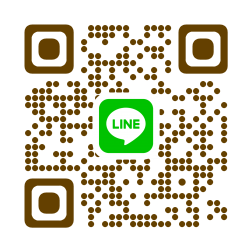
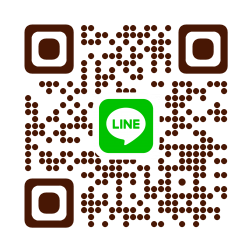
文言修正、社員紹介ページ写真追加

Changed region(s): [[0.0833, 0.0833, 0.9167, 0.9167]]

diff --git a/src/components/Footer.tsx b/src/components/Footer.tsx
@@ -25,20 +25,20 @@ const Footer: React.FC = () => {
 
             <ul className='social-links'>
               <li>
-                <a href='https://www.line.me/ja/' target='_blank'>
+                <a href='https://lin.ee/WEkHcKe' target='_blank'>
                   <i className='ri-line-fill'></i>
                 </a>
               </li>
-              <li>
+              {/* <li>
                 <a href='https://twitter.com/' target='_blank'>
                   <i className='ri-twitter-x-fill'></i>
                 </a>
-              </li>
-              <li>
+              </li> */}
+              {/* <li>
                 <a href='https://www.instagram.com/' target='_blank'>
                   <i className='ri-instagram-fill'></i>
                 </a>
-              </li>
+              </li> */}
               {/* <li>
                 <a href='https://www.linkedin.com/' target='_blank'>
                   <i className='ri-linkedin-fill'></i>
@@ -82,14 +82,14 @@ const Footer: React.FC = () => {
                   Contact
                 </Link>
               </li>
-              <li className='nav-item'>
+              {/* <li className='nav-item'>
                 <Link href='/blog' className='nav-link'>
                   Blog
                 </Link>
-              </li>
+              </li> */}
               <li className='nav-item'>
                 <Link href='/privacy-policy' className='nav-link'>
-                  privacy policy
+                  Privacy Policy
                 </Link>
               </li>
             </ul>
@@ -108,176 +108,5 @@ const Footer: React.FC = () => {
     </>
   )
 }
-
-//   return (
-//     <>
-//       <div className="footer-wrap-area with-gradient-color pt-100">
-//         <div className="container">
-//           <div className="row">
-//             <div className="col-lg-3 col-md-6 col-sm-6">
-//               <div className="single-footer-widget">
-//                 <Link href="/" className="logo">
-//                   <Image
-//                     src="/images/logo-white.png"
-//                     alt="logo"
-//                     width={50}
-//                     height={50}
-//                   />
-//                   <span className='text-white ri-xl'> Satisfaction co., Ltd.</span>
-//                 </Link>
-
-//                 <p>
-//                   エンジニアに、透明性と自由を。<br />想いや希望を形にする、パートナーであり続けます。
-//                 </p>
-
-//                 <ul className="social-links">
-//                   <li>
-//                     <a href="https://www.facebook.com/" target="_blank">
-//                       <i className="ri-facebook-fill"></i>
-//                     </a>
-//                   </li>
-//                   <li>
-//                     <a href="https://twitter.com/" target="_blank">
-//                       <i className="ri-twitter-fill"></i>
-//                     </a>
-//                   </li>
-//                   <li>
-//                     <a href="https://www.linkedin.com/" target="_blank">
-//                       <i className="ri-linkedin-fill"></i>
-//                     </a>
-//                   </li>
-//                   <li>
-//                     <a href="https://www.messenger.com/" target="_blank">
-//                       <i className="ri-messenger-fill"></i>
-//                     </a>
-//                   </li>
-//                   <li>
-//                     <a href="https://github.com/" target="_blank">
-//                       <i className="ri-github-fill"></i>
-//                     </a>
-//                   </li>
-//                 </ul>
-//               </div>
-//             </div>
-
-//             <div className="col-lg-2 col-md-6 col-sm-6">
-//               <div className="single-footer-widget pl-2">
-//                 <h3>Company</h3>
-//                 <ul className="links-list">
-//                   <li>
-//                     <Link href="/about-simple">About Us</Link>
-//                   </li>
-//                   <li>
-//                     <Link href="/features">Core Services</Link>
-//                   </li>
-//                   <li>
-//                     <Link href="/privacy-policy">Refund Policy</Link>
-//                   </li>
-//                   <li>
-//                     <Link href="/faq">FAQ's</Link>
-//                   </li>
-//                   <li>
-//                     <Link href="/feedback">Reviews</Link>
-//                   </li>
-//                 </ul>
-//               </div>
-//             </div>
-
-//             <div className="col-lg-2 col-md-3 col-sm-6">
-//               <div className="single-footer-widget">
-//                 <h3>Support</h3>
-//                 <ul className="links-list">
-//                   <li>
-//                     <Link href="/services">Services</Link>
-//                   </li>
-//                   <li>
-//                     <Link href="/contact">Support</Link>
-//                   </li>
-//                   <li>
-//                     <Link href="/privacy-policy">Privacy Policy</Link>
-//                   </li>
-//                   <li>
-//                     <Link href="/faq">FAQ's</Link>
-//                   </li>
-//                   <li>
-//                     <Link href="/contact">Contact</Link>
-//                   </li>
-//                 </ul>
-//               </div>
-//             </div>
-
-//             <div className="col-lg-2 col-md-3 col-sm-6">
-//               <div className="single-footer-widget">
-//                 <h3>Useful Links</h3>
-//                 <ul className="links-list">
-//                   <li>
-//                     <Link href="/privacy-policy">Privacy Policy</Link>
-//                   </li>
-//                   <li>
-//                     <Link href="/privacy-policy">Return Policy</Link>
-//                   </li>
-//                   <li>
-//                     <Link href="/terms-conditions">Terms & Conditions</Link>
-//                   </li>
-//                   <li>
-//                     <Link href="/how-it-works">How It Works?</Link>
-//                   </li>
-//                   <li>
-//                     <Link href="/contact">Contact Us</Link>
-//                   </li>
-//                 </ul>
-//               </div>
-//             </div>
-
-//             <div className="col-lg-3 col-md-6 col-sm-6">
-//               <div className="single-footer-widget">
-//                 <h3>Newsletter</h3>
-//                 <p>
-//                   Best solution for your it startup business,
-//                   consecteturadipiscing elit.
-//                 </p>
-
-//                 <form
-//                   className="newsletter-form"
-//                   onSubmit={(e) => e.preventDefault()}
-//                 >
-//                   <input
-//                     type="text"
-//                     className="input-newsletter"
-//                     placeholder="Your Email"
-//                     name="EMAIL"
-//                     required
-//                   />
-//                   <button type="submit">
-//                     <i className="ri-send-plane-2-line"></i>
-//                   </button>
-//                 </form>
-//               </div>
-//             </div>
-//           </div>
-
-//           <div className="copyright-area">
-//             <p>
-//               Copyright &copy; {currentYear} <strong>Texap</strong>. All Rights
-//               Reserved by{" "}
-//               <a href="https://envytheme.com/" target="_blank">
-//                 EnvyTheme
-//               </a>
-//             </p>
-//           </div>
-//         </div>
-
-//         <div className="footer-wrap-shape">
-//           <Image
-//             src="/images/home-7-8-9/footer/footer-shape-2.png"
-//             alt="image"
-//             width={1920}
-//             height={548}
-//           />
-//         </div>
-//       </div>
-//     </>
-//   );
-// };
 
 export default Footer;

diff --git a/src/components/Testimonials.tsx b/src/components/Testimonials.tsx
@@ -11,7 +11,7 @@ const features = [
     slug: "y-u",
     image: "/images/user/y-u.jpg",
     name: "Y. U",
-    info: "フロントエンドエンジニア",
+    info: "フロントエンドエンジニア / エンジニア歴7年",
     text: `前職でお世話になっていた先輩の紹介で入社を決めました。
           社長を含め全員がフレンドリーで、業務からプライベートまで相談しやすい風通しの良さが自慢です。
           現在はSESが中心ですが、今後は受託開発への挑戦や組織体制の強化など、会社としてさらに成長していくフェーズ。
@@ -21,7 +21,7 @@ const features = [
     slug: "y-y",
     image: "/images/user/y-y.jpg",
     name: "Y. Y",
-    info: "フルスタックエンジニア",
+    info: "フルスタックエンジニア / エンジニア歴10年",
     text: `裁量を持って働ける、スキルを伸ばせる、という点を魅力に感じ入社を決めました。
           当初は少人数の環境に不安もありましたが、現在は会社を大きくしていくフェーズに立ち会える面白さを実感しています。
           仕事の進め方を自分でコントロールできるため、ワークライフバランスを大切にしながら着実に成長できる環境です。
@@ -31,7 +31,7 @@ const features = [
     slug: "o-k",
     image: "/images/user/o-k.jpg",
     name: "O. K",
-    info: "フルスタックエンジニア",
+    info: "フルスタックエンジニア / エンジニア歴18年",
     text: `一緒に働いて楽しかった方から誘われ、これぞエンジニア！と言った働き方（良くも悪くも）ができる環境に惹かれ入社しました。
           現在は家族を優先した在宅勤務や時間調整など、柔軟な働き方を尊重してもらっています。
           裁量がある分、個人の判断や責任も伴いますが、プロとして自律的に動ける面白さがあります。
@@ -41,7 +41,7 @@ const features = [
     slug: "m-u",
     image: "/images/user/m-u.jpg",
     name: "M. U",
-    info: "SAPエンジニア",
+    info: "SAPコンサルタント / エンジニア歴4年",
     text: `風通しが良く、自分の能力を最大限に発揮できる環境に惹かれ入社しました。
     代表との距離が近く、意見交換がスムーズなため、不安を即座に解消できるスピード感が魅力です。
     現在は、ユーザーの方々へより自信を持って提案できるよう、コミュニケーションの改善に励んでいます。
@@ -51,39 +51,39 @@ const features = [
     slug: "k-s",
     image: "/images/user/k-s.jpg",
     name: "K. S",
-    info: "バックエンドエンジニア",
+    info: "バックエンドエンジニア / エンジニア歴8年",
     text: `前職の同僚からの紹介で出会った、社内の温かい雰囲気に惹かれ入社を決めました。
           現在はフルリモートという環境を活かし、生活リズムに合わせた柔軟な働き方を実現しています。
           少人数の組織ゆえに情報共有の仕組みなどは改善の余地がありますが、その分スピード感があり、新しい技術にも積極的に挑戦できる環境です。
           この変化を楽しみながら、共に成長していける仲間をお待ちしています！`,  
   },
-  {
-    slug: "r-t",
-    image: "/images/user/r-t.jpg",
-    name: "R. T",
-    info: "営業部",
-    text: `人生の岐路で親身にアドバイスをいただき、成長を後押ししてもらったことが入社の決め手です。
-          現在は、自立したメンバーが自分の人生に真摯に向き合う、心地よい温度感の中で働いています。
-          営業チームは立ち上げ期で手探りな部分もありますが、早く互いを助け合える体制を固め、組織の土台を築いていくのが今の目標です！`,
-  },
-  {
-    slug: "m-f",
-    image: "/images/user/m-f.jpg",
-    name: "M. F",
-    info: "総務部",
-    text: `『人をサポートすることが好き』という想いから、バックオフィスとして社員が安心して仕事に集中できる環境づくりに励んでいます。
-          直接お会いする機会は多くありませんが、日々の丁寧な対応を通じて、会社の成長を明るく支える『縁の下の力持ち』でありたいと思っています。
-          困ったときにいつでも気軽に頼ってもらえる、そんな心地よい組織を一緒に創っていきましょう！`,
-  },
-  {
-    slug: "h-y",
-    image: "/images/user/h-y.jpg",
-    name: "H. Y",
-    info: "営業部",
-    text: `社長の人柄と、個人のキャリアを大切に考えてくれる姿勢に惹かれて入社を決めました。
-          フルリモート中心ですが、困った時にすぐ相談できる温かい雰囲気があり、何より仕事を楽しみながら取り組む社風が魅力です。
-          今後は固定概念にとらわれず多角的な視点を養い、会社とともに自分自身の可能性もさらに広げていきたいと思っています！`,
-  }
+  // {
+  //   slug: "r-t",
+  //   image: "/images/user/r-t.jpg",
+  //   name: "R. T",
+  //   info: "営業部",
+  //   text: `人生の岐路で親身にアドバイスをいただき、成長を後押ししてもらったことが入社の決め手です。
+  //         現在は、自立したメンバーが自分の人生に真摯に向き合う、心地よい温度感の中で働いています。
+  //         営業チームは立ち上げ期で手探りな部分もありますが、早く互いを助け合える体制を固め、組織の土台を築いていくのが今の目標です！`,
+  // },
+  // {
+  //   slug: "m-f",
+  //   image: "/images/user/m-f.jpg",
+  //   name: "M. F",
+  //   info: "総務部",
+  //   text: `『人をサポートすることが好き』という想いから、バックオフィスとして社員が安心して仕事に集中できる環境づくりに励んでいます。
+  //         直接お会いする機会は多くありませんが、日々の丁寧な対応を通じて、会社の成長を明るく支える『縁の下の力持ち』でありたいと思っています。
+  //         困ったときにいつでも気軽に頼ってもらえる、そんな心地よい組織を一緒に創っていきましょう！`,
+  // },
+  // {
+  //   slug: "h-y",
+  //   image: "/images/user/h-y.jpg",
+  //   name: "H. Y",
+  //   info: "営業部",
+  //   text: `社長の人柄と、個人のキャリアを大切に考えてくれる姿勢に惹かれて入社を決めました。
+  //         フルリモート中心ですが、困った時にすぐ相談できる温かい雰囲気があり、何より仕事を楽しみながら取り組む社風が魅力です。
+  //         今後は固定概念にとらわれず多角的な視点を養い、会社とともに自分自身の可能性もさらに広げていきたいと思っています！`,
+  // }
 ];
 
 const Testimonials: React.FC = () => {

diff --git a/src/components/NavBar.tsx b/src/components/NavBar.tsx
@@ -16,7 +16,7 @@ const MENUS: Menu[] = [
   { label: 'Business', link: '/business' },
   { label: 'Recruit', link: '/recruit' },
   { label: 'Contact', link: '/contact' },
-  { label: 'Blog', link: '/blog' },
+  // { label: 'Blog', link: '/blog' },
 ]
 
 interface NavBarProps {
@@ -100,7 +100,7 @@ const NavBar: React.FC<NavBarProps> = ({
                   <div className="option-item">
                     <a href="/contact" className="contact-btn">お問い合わせ</a>
                     &emsp;
-                    <a href="https://line.me/R/ti/p/@xxxxx" className="line-btn"><i className="ri-line-fill"></i> LINE友だち追加</a>
+                    <a href="https://lin.ee/WEkHcKe" className="line-btn"><i className="ri-line-fill"></i> LINE友だち追加</a>
                   </div>
                 </div>
               )}
@@ -114,7 +114,7 @@ const NavBar: React.FC<NavBarProps> = ({
         <div className="others-options mobile-fixed-contact-btn">
           <div className="option-item">
             <a href="/contact" className="contact-btn">お問い合わせ</a>
-            <a href="https://line.me/R/ti/p/@xxxxx" className="line-btn"><i className="ri-line-fill"></i> LINE友だち追加</a>
+            <a href="https://lin.ee/WEkHcKe" className="line-btn"><i className="ri-line-fill"></i> LINE友だち追加</a>
           </div>
         </div>
       )}

diff --git a/src/app/recruit/[id]/page.tsx b/src/app/recruit/[id]/page.tsx
@@ -169,7 +169,7 @@ const JOB_DETAILS = {
     ],
   },
   'sap': {
-    title: 'SAPエンジニア',
+    title: 'SAPコンサルタント',
     description: 'SAP製品を用いた基幹システムの導入、アドオン開発プロジェクト等を担当していただきます。',
     techStackGroup: {
       title: '開発環境一例',
@@ -292,7 +292,7 @@ export default function JobDetailPage({ params }: { params: { id: string } }) {
               </tr>
               <tr>
                 <th>給与・報酬</th>
-                <td>単価連動型の報酬体系。スキル・経験に基づき決定。（￥3,000,000～8,000,000）</td>
+                <td>単価連動型の報酬体系。スキル・経験に基づき決定。（￥3,000,000～10,000,000）</td>
               </tr>
               <tr>
                 <th>休日・休暇</th>

diff --git a/src/components/JobList.tsx b/src/components/JobList.tsx
@@ -8,7 +8,7 @@ const jobCategories = [
   { id: 'fullstack', title: 'フルスタックエンジニア' },
   { id: 'pm-lead', title: 'テックリード / PM' },
   { id: 'infrastructure', title: 'インフラエンジニア' },
-  { id: 'sap', title: 'SAPエンジニア' },
+  { id: 'sap', title: 'SAPコンサルタント' },
 ];
 
 const SELECTION_PROCESS = [

diff --git a/src/app/recruit/page.tsx b/src/app/recruit/page.tsx
@@ -19,7 +19,7 @@ const Recruit: React.FC = () => {
         pageTitle="Recruit"
         homePageUrl="/"
         homePageText="Top"
-        activePageText="リクルート"
+        activePageText="採用情報"
       />
 
       <NavBar />
